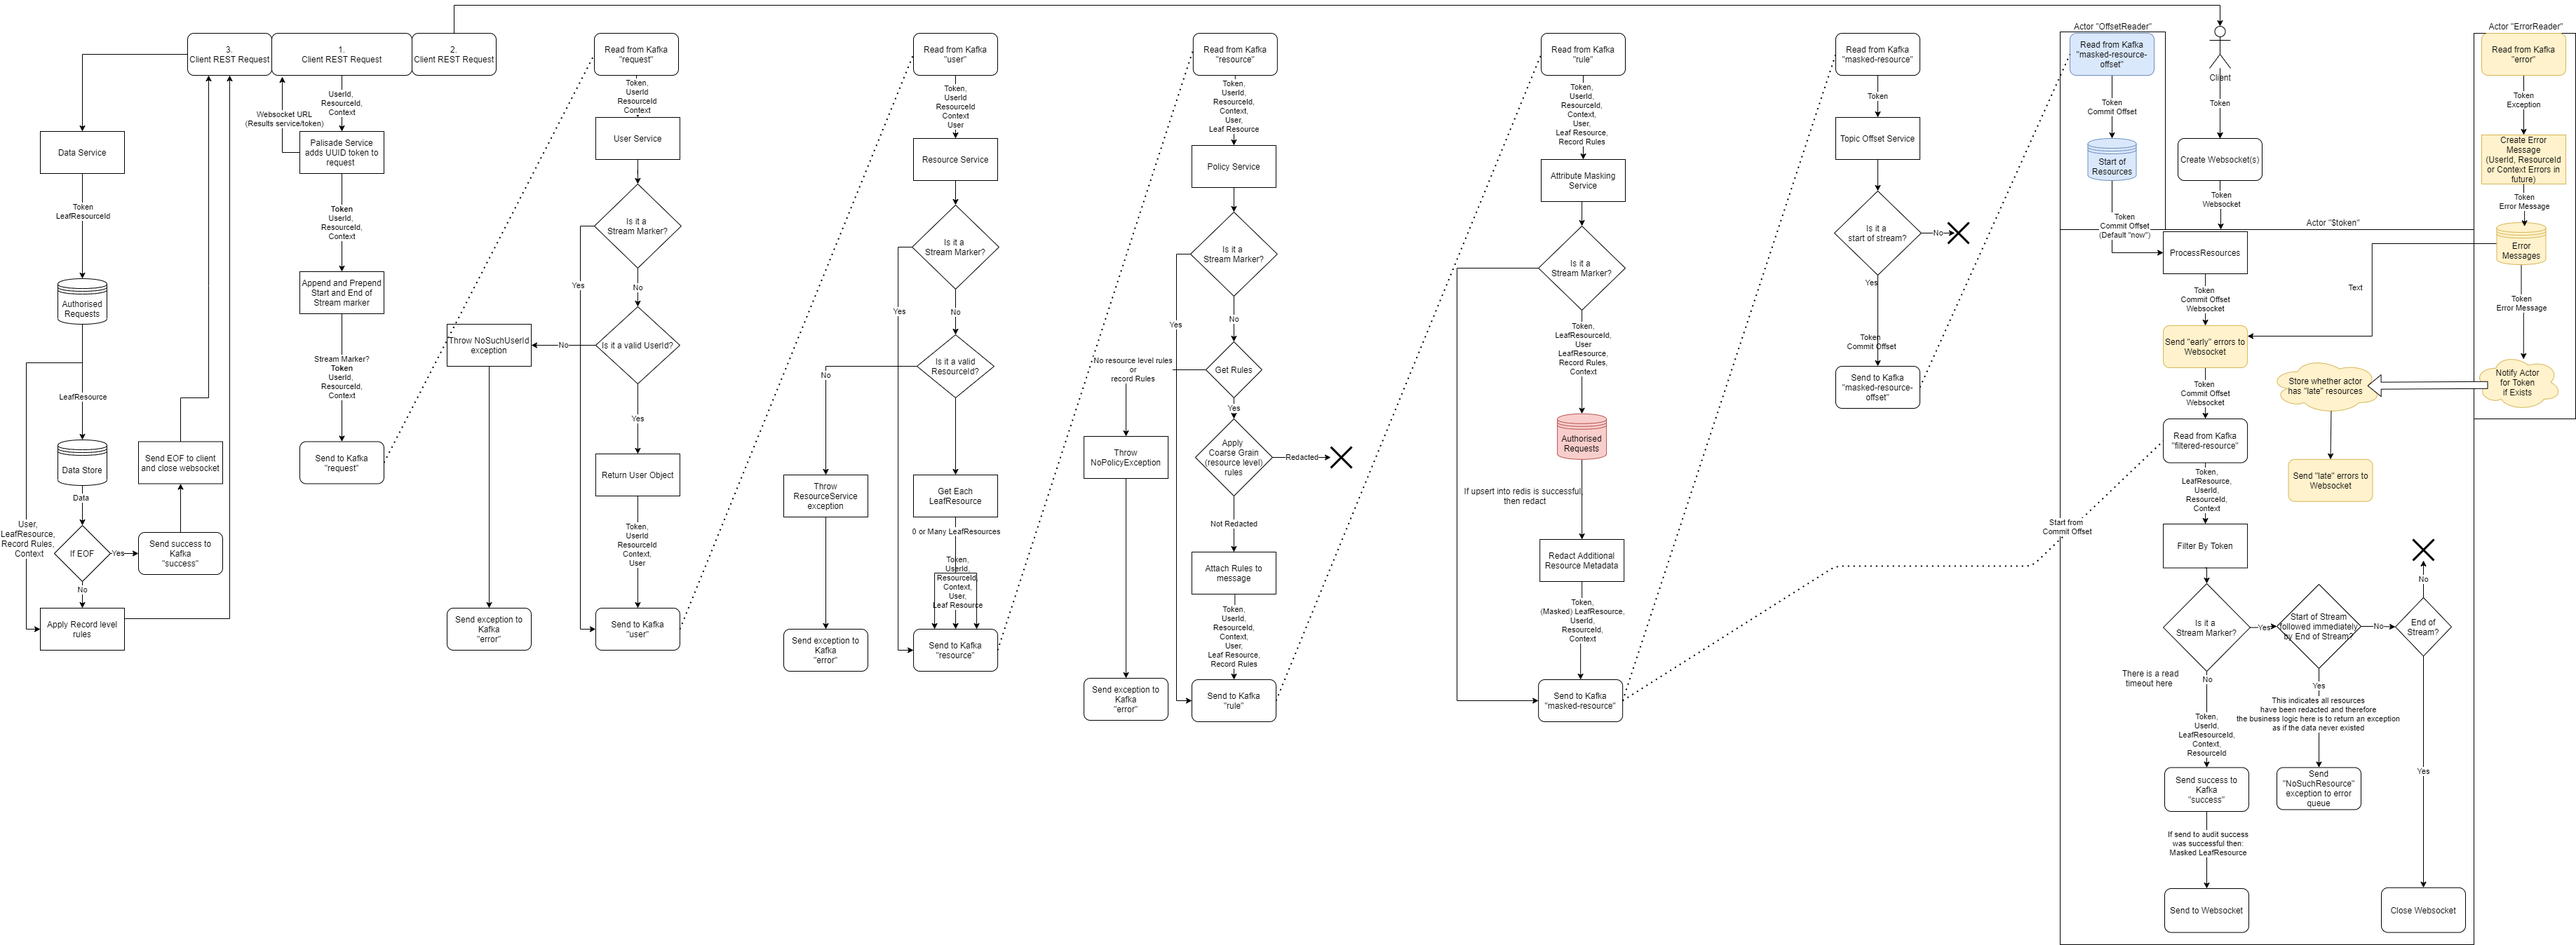
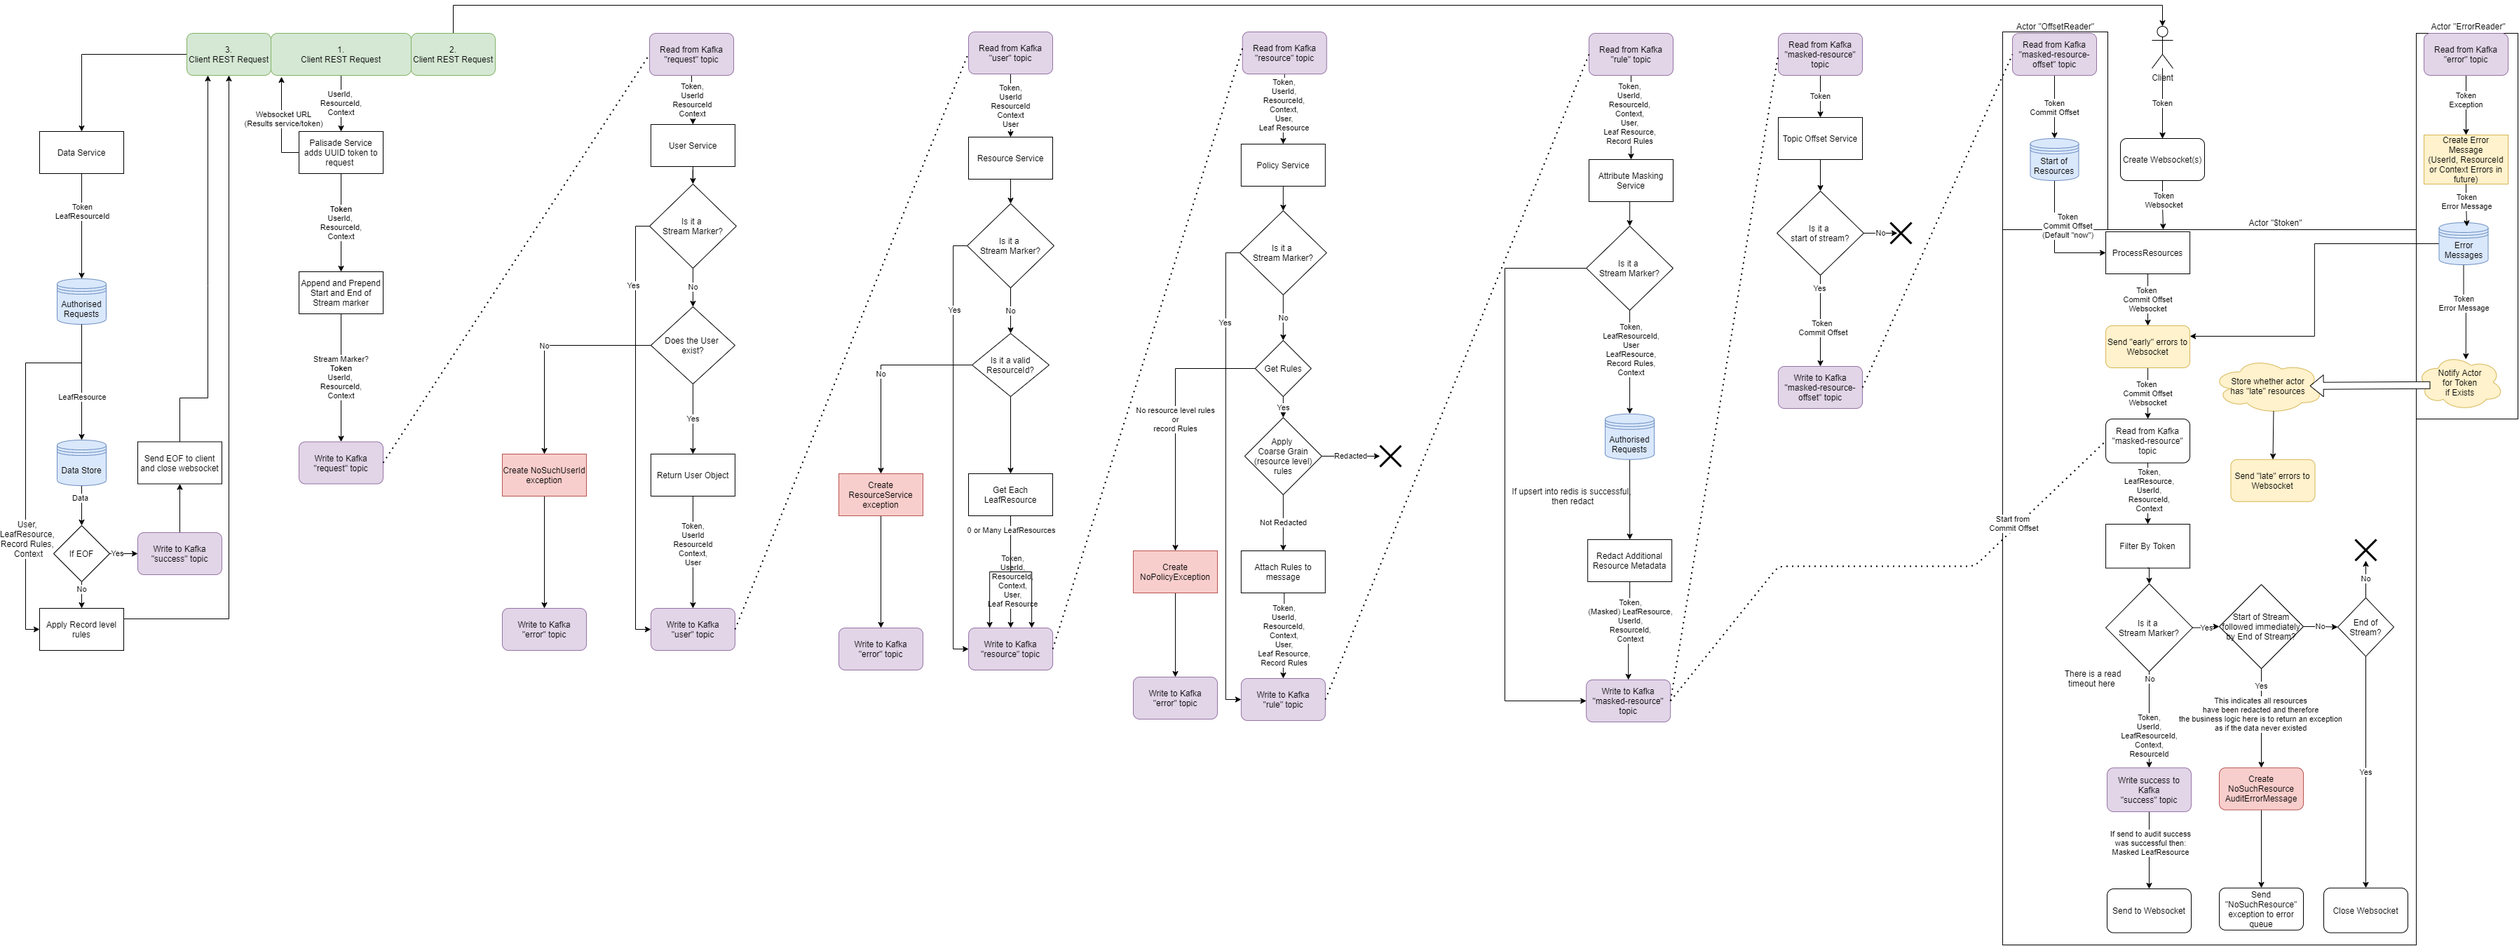
PAL-1093 updated quickstart guide to remove Java dependency, updated JVM and K8s deployment images to include Data Service, updated Palisade Control Flow diagrams, readed policy to motivating scenario

diff --git a/src/motivating_scenario.md b/src/motivating_scenario.md
@@ -96,4 +96,5 @@ With these, we hope to demonstrate Palisade is capable of applying complex recor
 * resource-level filtering - hide a resource `File /data/employee_file0.avro`
 * record-level filtering - hide the whole `Employee Alice` record
 * record-level masking - show the first half of `Alice`'s `PostCode` and hide the rest of the address
+* contextual rule application - show the full `BankDetails` if the purpose of the request was `SALARY` and the user has completed the `PAYROLL_TRAINING_COURSE`, otherwise hide it
 * complex (recursive) rules - show `Alice` the `PayGrade` of employees for whom she is in their management chain (managers of managers etc.)

diff --git a/QUICKSTART.md b/QUICKSTART.md
@@ -21,7 +21,6 @@ limitations under the License.
 ### Prerequisites
 Before running, make sure you have installed and appropriately-configured the following:
 * [Git](https://git-scm.com/downloads)
-* [OpenJDK Java 11](https://openjdk.java.net/projects/jdk/11/) or [Oracle Java 11](https://www.oracle.com/java/technologies/javase-jdk11-downloads.html)
 * [Docker](https://www.docker.com/products/docker-desktop) and Kubernetes, which now is bundled with Docker Desktop. You may be required to create a Docker account and login to successfully pull images from DockerHub
 * [Helm 3](https://helm.sh/) for deploying to Kubernetes and managing deployments
 
